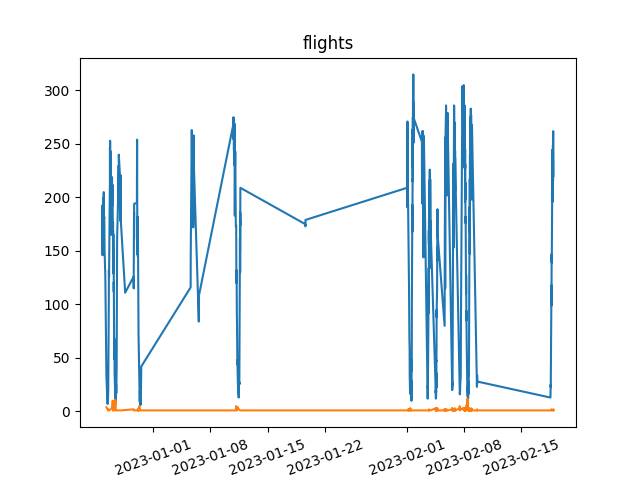
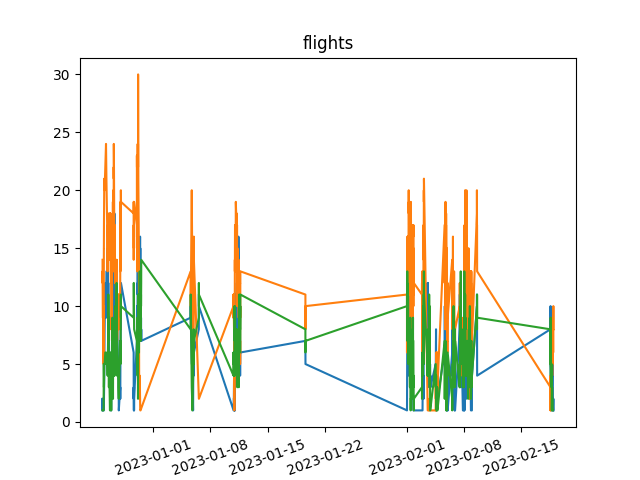
Integrated the search bar
Now the user can type into the search bar to add countries to the plot

diff --git a/sif-website/src/App.js b/sif-website/src/App.js
@@ -9,6 +9,7 @@ const options1 = [];
 function App() {
   const [image, setImage] = useState(null);
   const [route, setRoute] = useState(window.location.pathname);
+  const [words, setWords] = useState(["Australia", "Japan", "Taiwan", "Ethiopia", "Luxembourg", "Switzerland", "Mexico", "Turkey", "Canada", "Indonesia", "Portugal", "Chile", "Argentina", "China", "Hungary", "Bahrain", "Norway", "Brazil", "Malaysia", "Vanuatu", "Uzbekistan", "Thailand", "France", "Philippines", "India", "Sweden", "Ukraine", "Singapore", "Germany", "Rwanda", "Iceland", "Egypt", "Colombia", "Algeria", "Poland", "Qatar", "Spain", "Romania", "Bangladesh", "Slovakia", "Austria", "Israel", "Belgium", "Pakistan", "Malta", "Morocco", "Oman", "Slovenia", "Sudan", "Ireland", "Serbia", "Fiji", "Nepal", "Belarus", "Cambodia", "Kazakhstan", "Panama", "Tunisia", "Bulgaria", "Myanmar", "Kuwait", "Finland", "Jordan", "Azerbaijan", "Denmark", "Venezuela", "Bhutan", "Lebanon"]);
   
   useEffect(() => {
     async function fetchImage(route1) {
@@ -16,7 +17,7 @@ function App() {
       const blob = await response.blob();
       setImage(URL.createObjectURL(blob));
     }
-    
+
     if (route === '/flight') {
 
       fetchImage('/flight');
@@ -30,88 +31,75 @@ function App() {
     setRoute(window.location.pathname);
   });
 
+  const [inputValue, setInputValue] = useState("");
+  const [filteredWords, setFilteredWords] = useState([]);
 
-  const handleChange = async (event) => {
-    const {name, checked} = event.target;
-    if (checked){
-      options1.push(name)
-    }
-    else {
-      let index = options1.indexOf(name);
-      if (index > -1) {
-        options1.splice(index, 1);
+  const handleInputChange = (event) => {
+    setInputValue(event.target.value);
+    if (event.target.value.length > 0){
+      setFilteredWords(
+        words.filter((word) => word.toLowerCase().startsWith(event.target.value.toLowerCase()))
+      );
+    };
+  };
+
+  const [inputs, setInputs] = useState([]);
+  
+  const handleKeyUp = async (event) => {
+    if (event.keyCode === 13 && event.target.value.length > 0) {
+      const foundWord = words.find((word) => word.toLowerCase().startsWith(event.target.value.toLowerCase()));
+      
+      if (foundWord !== undefined) {
+        setInputs(inputs => [...inputs, foundWord]);
+        options1.push(foundWord);
       }
-    }
+      event.target.value = "";
+      setInputValue(event.target.value);
+
+
+      const response = await fetch(`/flight?options=${options1.join(",")}`);
+      const blob = await response.blob();
+      setImage(URL.createObjectURL(blob));
+
+    };
+  };
+  
+  
+  const handleCloseClick = async (index) => {
+    options1.splice(index, 1);
+
     const response = await fetch(`/flight?options=${options1.join(",")}`);
     const blob = await response.blob();
     setImage(URL.createObjectURL(blob));
+    setInputs(inputs.filter((input, i) => i !== index));
   }
 
   return (
     <div>
       {image && <img src={image} alt="Random Plot" />}
-      <form>
-        <label>
-          <input type="checkbox" name="Australia" onChange={handleChange} />
-          Australia
-        </label>
-      <br />
-        <label>
-          <input type="checkbox" name="Thailand" onChange={handleChange} />
-          Thailand
-        </label>
-      <br />
-        <label>
-          <input type="checkbox" name="Brazil" onChange={handleChange} />
-          Brazil
-        </label>
-      <br />
-        <label>
-          <input type="checkbox" name="Japan" onChange={handleChange} />
-          Japan
-        </label>
-      <br />
-        <label>
-          <input type="checkbox" name="" onChange={handleChange} />
-          Taiwan
-        </label>
-      <br />
-        <label>
-          <input type="checkbox" name="Ethiopia" onChange={handleChange} />
-          Ethiopia
-        </label>
-      <br />
-        <label>
-          <input type="checkbox" name="Switzerland" onChange={handleChange} />
-          Switzerland
-        </label>
-      <br />
-        <label>
-          <input type="checkbox" name="Mexico" onChange={handleChange} />
-          Mexico
-        </label>
-      <br />
-        <label>
-          <input type="checkbox" name="Turkey" onChange={handleChange} />
-          Turkey
-        </label>
-      <br />
-        <label>
-          <input type="checkbox" name="Canada" onChange={handleChange} />
-          Canada
-        </label>
-      <br />
-        <label>
-          <input type="checkbox" name="Indonesia" onChange={handleChange} />
-          Indonesia
-        </label>
-      <br />
-        <label>
-          <input type="checkbox" name="China" onChange={handleChange} />
-          China
-        </label>
-      <br />
-    </form>
+      <div className="textbox-container">
+        <input
+          type="text"
+          value={inputValue}
+          onChange={handleInputChange}
+          onKeyUp={handleKeyUp} 
+        />
+
+        {options1.map((input, index) => (
+          <div key={index} style={{width: "300px", height: "20px", border: "1px solid black", padding: "10px", fontSize: "20px", marginBottom: "10px", position: "relative"}}>
+            {input}
+            <span style={{position: "absolute", top: "1px", right: "5px", cursor: "pointer", fontSize: "20px"}} onClick={() => handleCloseClick(index)}>x</span>
+          </div>
+        ))}
+
+        {filteredWords.length > 0 && (
+          <ul className="filtered-words">
+            {filteredWords.map((word) => (
+              <p key={word}>{word}</p>
+            ))}
+          </ul>
+        )}
+      </div>
     </div>
   );
 }

diff --git a/sif/src/App.js b/sif/src/App.js
@@ -1,5 +1,7 @@
-import React, { useState } from "react";
-import "./components/TextBox.css";
+import React, { useEffect, useState } from 'react';
+import { Route, Routes } from 'react-router-dom';
+
+const options1 = [];
 
 const TextBox = () => {
   const [inputValue, setInputValue] = useState("");
@@ -9,26 +11,29 @@ const TextBox = () => {
   const handleInputChange = (event) => {
     setInputValue(event.target.value);
     setFilteredWords(
-      words.filter((word) => word.startsWith(inputValue))
+      words.filter((word) => word.startsWith(event.target.value))
     );
   };
 
   const [inputs, setInputs] = useState([]);
   
   const handleKeyUp = (event) => {
-    if (event.keyCode === 13) {
+    if (event.keyCode === 13 && event.target.value.length > 0) {
       const foundWord = words.find((word) => word.startsWith(event.target.value));
-      if (words.includes(event.target.value)) {
-        setInputs([...inputs, event.target.value]);
-      } else if (foundWord) {
-        setInputs([...inputs, foundWord]);
+      
+      if (foundWord !== undefined) {
+        setInputs(inputs => [...inputs, foundWord]);
+        options1.push(foundWord);
       }
       event.target.value = "";
-    }
+      setInputValue(event.target.value);
+    };
   };
   
   
   const handleCloseClick = (index) => {
+    options1.splice(index, 1);
+    console.log(options1);
     setInputs(inputs.filter((input, i) => i !== index));
   }
 
@@ -41,10 +46,10 @@ const TextBox = () => {
         onKeyUp={handleKeyUp} 
       />
 
-      {inputs.map((input, index) => (
-        <div key={index} style={{width: "300px", height: "50px", border: "1px solid black", padding: "10px", fontSize: "20px", marginBottom: "10px", position: "relative"}}>
+      {options1.map((input, index) => (
+        <div key={index} style={{width: "300px", height: "20px", border: "1px solid black", padding: "10px", fontSize: "20px", marginBottom: "10px", position: "relative"}}>
           {input}
-          <span style={{position: "absolute", top: "5px", right: "5px", cursor: "pointer", fontSize: "20px"}} onClick={() => handleCloseClick(index)}>x</span>
+          <span style={{position: "absolute", top: "1px", right: "5px", cursor: "pointer", fontSize: "20px"}} onClick={() => handleCloseClick(index)}>x</span>
         </div>
       ))}
 

diff --git a/temp2.py b/temp2.py
@@ -1,4 +1,28 @@
-answer = 125.02225
+import hashlib
+import matplotlib.pyplot as plt
+import numpy as np
 
-answer = str(round(answer, 2))
-print(answer)
+# Define the data sources
+data_sources = ['source1', 'source2', 'source3', 'source4']
+num_sources = len(data_sources)
+
+# Generate a mapping of numbers to colors
+color_map = {}
+for i in range(1, num_sources+1):
+    # Generate a unique hash for each number
+    hash_object = hashlib.sha256(str(i).encode())
+    hex_dig = hash_object.hexdigest()
+    
+    # Convert the hash to an RGB color
+    r, g, b = int(hex_dig[:2], 16), int(hex_dig[2:4], 16), int(hex_dig[4:], 16)
+    color_map[i] = '#{:02x}{:02x}{:02x}'.format(r, g, b)
+
+# Generate some random data for each source
+data = {}
+for source in data_sources:
+    data[source] = np.random.rand(10)
+
+# Plot the data with the corresponding colors
+for i, source in enumerate(data_sources):
+    color = color_map[i+1]
+    print(color)
